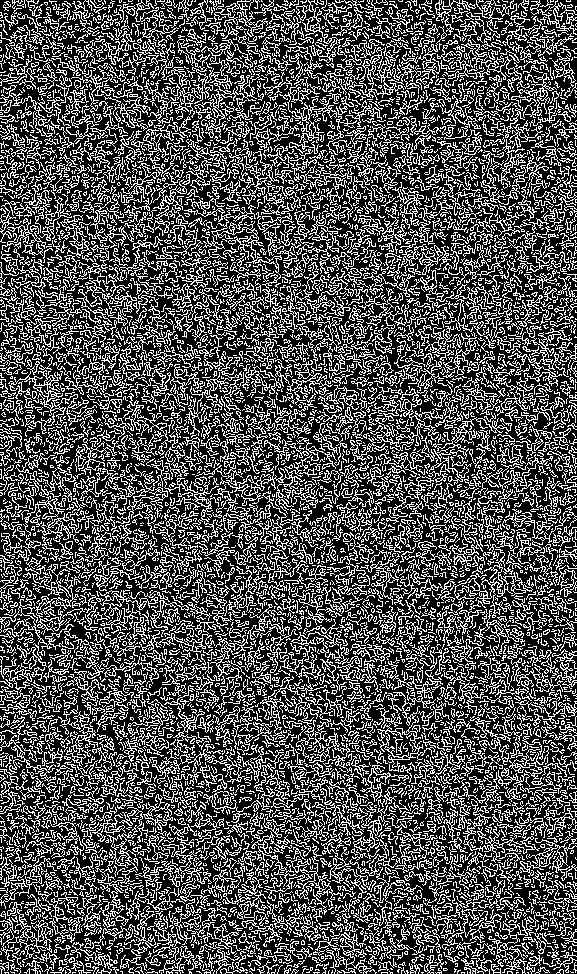
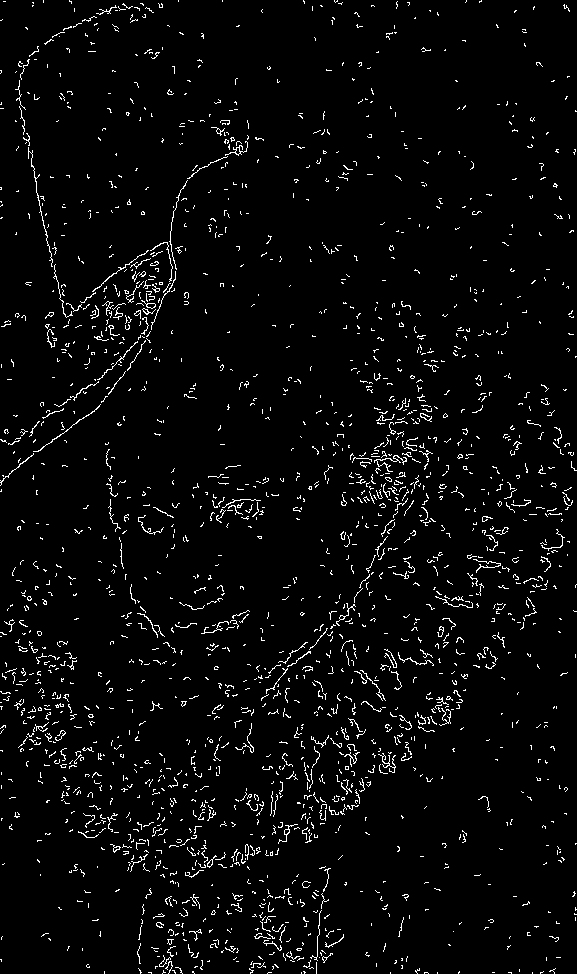
more images

diff --git a/exercise1/report/report.tex b/exercise1/report/report.tex
@@ -29,24 +29,12 @@
 	bottom = 3cm
 }
 
-\usepackage[  % ieee style citations (e.g. [1])
-	backend     = biber,
-	maxbibnames = 99,
-	autocite    = footnote,
-	style	    = ieee,
-	citestyle   = numeric-comp,
-	doi=false, isbn=false
-]{biblatex}
-\addbibresource{bibliography/bibliography.bib}
-
 \usepackage[hang]{footmisc}
 \renewcommand{\hangfootparindent}{2em} 
 \renewcommand{\hangfootparskip}{2em}
 \renewcommand{\footnotemargin}{0.00001pt}
 \renewcommand{\footnotelayout}{\hspace{2em}}
 
-% add missing hyphenations
-\hyphenation{im-ple-men-ta-tions}
 
 \title{376.054 Machine Vision and Cognitive Robotics\\
 	   Exercise 1: Canny Edge Detector}
@@ -233,7 +221,7 @@ $t_1 = 0.25, t_2 = 0.5$
 \subsection{Parameters of hysteresis thresholding}
 
 \begin{figure} [h!]
-\begin{subfigure}[b]{0.2\textwidth}
+\begin{subfigure}[b]{0.22\textwidth}
 \includegraphics[height=5cm]{ex2/CannyA_0.10_0.70.png}
 \centering
 \subcaption{$t_1=0.1$}
@@ -294,9 +282,49 @@ $t_1 = 0.25, t_2 = 0.5$
 \label{hysteresis_t2}
 \end{figure}
 
-\subsection{Hysteresis thresholding on different images}
+\subsection{Hysteresis thresholding with different images}
+
+\begin{figure} [h!]
+\begin{subfigure}[b]{0.25\textwidth}
+\includegraphics[height=5cm]{ex2/CannyA_0.30_0.50.png}
+\centering
+\end{subfigure}
+\hfill
+\begin{subfigure}[b]{0.2\textwidth}
+\includegraphics[height=5cm]{ex2/CannyB_0.30_0.50.png}
+\centering
+\end{subfigure}
+\hfill
+\begin{subfigure}[b]{0.5\textwidth}
+\includegraphics[height=5cm]{ex2/CannyC_0.30_0.50.png}
+\centering
+\end{subfigure}
+\caption{Hysteresis thresholding with $t_1=0.3$ and $t_2=0.7$ for different images.}
+\label{hysteresis_different}
+\end{figure}
 
 \subsection{Influence of automatic threshold selection}
+
+% TODO issue
+\begin{figure} [h!]
+\begin{subfigure}[b]{0.25\textwidth}
+\includegraphics[height=5cm]{ex2/AutoA_0.10_0.30.png}
+\centering
+\end{subfigure}
+\hfill
+\begin{subfigure}[b]{0.2\textwidth}
+\includegraphics[height=5cm]{ex2/AutoB_0.10_0.30.png}
+\centering
+\end{subfigure}
+\hfill
+\begin{subfigure}[b]{0.5\textwidth}
+\includegraphics[height=5cm]{ex2/AutoC_0.10_0.30.png}
+\centering
+\end{subfigure}
+\caption{Automatic hysteresis threshold detection with $30\%$ of the edges above $t_1$ and $10\%$ above $t_2$.}
+\label{hysteresis_auto}
+\end{figure}
+
 
 \subsection{Limitations of automatic threshold selection}
 
@@ -305,9 +333,85 @@ $t_1 = 0.25, t_2 = 0.5$
 \section{Experiment 3}
 \subsection{Influence of noise on edge detection}
 
+\begin{figure} [h!]
+\begin{subfigure}[b]{0.22\textwidth}
+\includegraphics[height=5cm]{ex3/Noise_0.05.png}
+\centering
+\end{subfigure}
+\hfill
+\begin{subfigure}[b]{0.22\textwidth}
+\includegraphics[height=5cm]{ex3/Noise_0.10.png}
+\centering
+\end{subfigure}
+\hfill
+\begin{subfigure}[b]{0.22\textwidth}
+\includegraphics[height=5cm]{ex3/Noise_0.20.png}
+\centering
+\end{subfigure}
+\hfill
+\begin{subfigure}[b]{0.22\textwidth}
+\includegraphics[height=5cm]{ex3/Noise_0.50.png}
+\centering
+\end{subfigure}
+\vskip\baselineskip
+\begin{subfigure}[b]{0.22\textwidth}
+\includegraphics[height=5cm]{ex3/Edges_Noise_0.05.png}
+\centering
+\subcaption{$\sigma_{noise}=0.05$}
+\end{subfigure}
+\hfill
+\begin{subfigure}[b]{0.22\textwidth}
+\includegraphics[height=5cm]{ex3/Edges_Noise_0.10.png}
+\centering
+\subcaption{$\sigma_{noise}=0.1$}
+\end{subfigure}
+\hfill
+\begin{subfigure}[b]{0.22\textwidth}
+\includegraphics[height=5cm]{ex3/Edges_Noise_0.20.png}
+\centering
+\subcaption{$\sigma_{noise}=0.2$}
+\end{subfigure}
+\hfill
+\begin{subfigure}[b]{0.22\textwidth}
+\includegraphics[height=5cm]{ex3/Edges_Noise_0.50.png}
+\centering
+\subcaption{$\sigma_{noise}=0.5$}
+\end{subfigure}
+\caption{Images (top) and detected edges (bottom) for Gaussian noise added to the input images.}
+\label{noise}
+\end{figure}
+
 \subsection{Alleviating the influence of noise}
 
 \subsubsection*{Altering $\sigma$}
+
+\begin{figure} [h!]
+\begin{subfigure}[b]{0.22\textwidth}
+\includegraphics[height=5cm]{ex3/No_noise.png}
+\centering
+\subcaption{No noise}
+\end{subfigure}
+\hfill
+\begin{subfigure}[b]{0.22\textwidth}
+\includegraphics[height=5cm]{ex3/Edges_Noise_0.2_blurred_with_1.00.png}
+\centering
+\subcaption{$\sigma=1$}
+\end{subfigure}
+\hfill
+\begin{subfigure}[b]{0.22\textwidth}
+\includegraphics[height=5cm]{ex3/Edges_Noise_0.2_blurred_with_2.00.png}
+\centering
+\subcaption{$\sigma=2$}
+\end{subfigure}
+\hfill
+\begin{subfigure}[b]{0.22\textwidth}
+\includegraphics[height=5cm]{ex3/Edges_Noise_0.2_blurred_with_2.00.png}
+\centering
+\subcaption{$\sigma=4$}
+\end{subfigure}
+\caption{TODO} % sigma_noise, t1, t2}
+\label{noise_sigma}
+\end{figure}
 
 \subsubsection*{Altering the hysteresis thresholds}
 

diff --git a/exercise1/experiment3.py b/exercise1/experiment3.py
@@ -37,29 +37,29 @@ canny_edges = hyst_thresh(edges, low, high)
 show_image(canny_edges, "No noise", save_image=save_image,
            use_matplotlib=matplotlib_plotting)
 
-for s in [0.02, 0.05, 0.1, 0.2, 0.5]:
-    img_noise = add_gaussian_noise(img_gray, sigma=s)
-    show_image(img_noise, "Noise {:.2f}".format(s), save_image=save_image,
-               use_matplotlib=matplotlib_plotting)
-    img_blur = blur_gauss(img_noise, sigma)
-    gradients, orientations = sobel(img_blur)
-    edges = non_max(gradients, orientations)
-    low = 0.25
-    high = 0.35
-    canny_edges = hyst_thresh(edges, low, high)
-    show_image(canny_edges, "Edges Noise {:.2f}".format(s), save_image=save_image,
-               use_matplotlib=matplotlib_plotting)
+# for s in [0.02, 0.05, 0.1, 0.2, 0.5]:
+#     img_noise = add_gaussian_noise(img_gray, sigma=s)
+#     show_image(img_noise, "Noise {:.2f}".format(s), save_image=save_image,
+#                use_matplotlib=matplotlib_plotting)
+#     img_blur = blur_gauss(img_noise, sigma)
+#     gradients, orientations = sobel(img_blur)
+#     edges = non_max(gradients, orientations)
+#     low = 0.25
+#     high = 0.35
+#     canny_edges = hyst_thresh(edges, low, high)
+#     show_image(canny_edges, "Edges Noise {:.2f}".format(s), save_image=save_image,
+#                use_matplotlib=matplotlib_plotting)
 
 
 for sigma in [1, 2, 3, 4]:
-    img_noise = add_gaussian_noise(img_gray, sigma=0.1)
+    img_noise = add_gaussian_noise(img_gray, sigma=0.2)
     img_blur = blur_gauss(img_noise, sigma)
     gradients, orientations = sobel(img_blur)
     edges = non_max(gradients, orientations)
     low = 0.25
     high = 0.35
     canny_edges = hyst_thresh(edges, low, high)
-    show_image(canny_edges, "Edges Noise 0.1 blurred with {:.2f}".format(sigma), save_image=save_image,
+    show_image(canny_edges, "Edges Noise 0.2 blurred with {:.2f}".format(sigma), save_image=save_image,
                use_matplotlib=matplotlib_plotting)
 
 cv2.destroyAllWindows()
